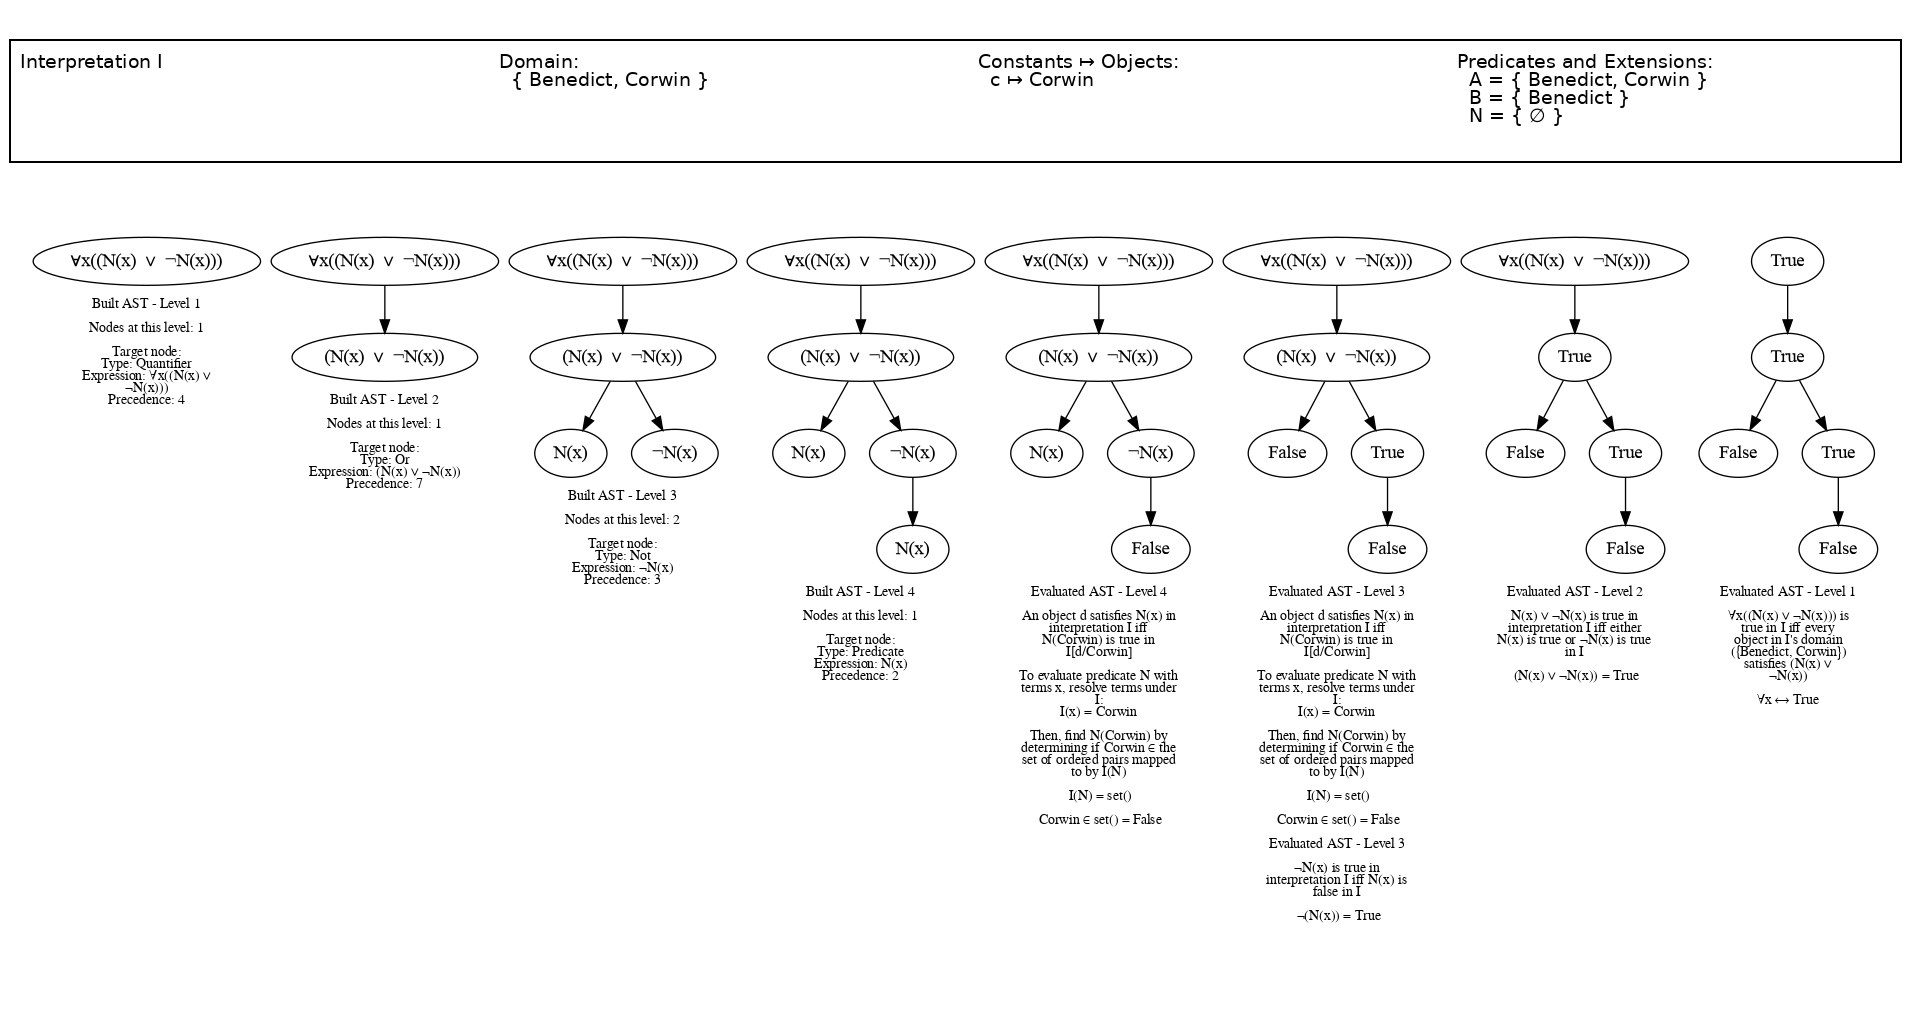
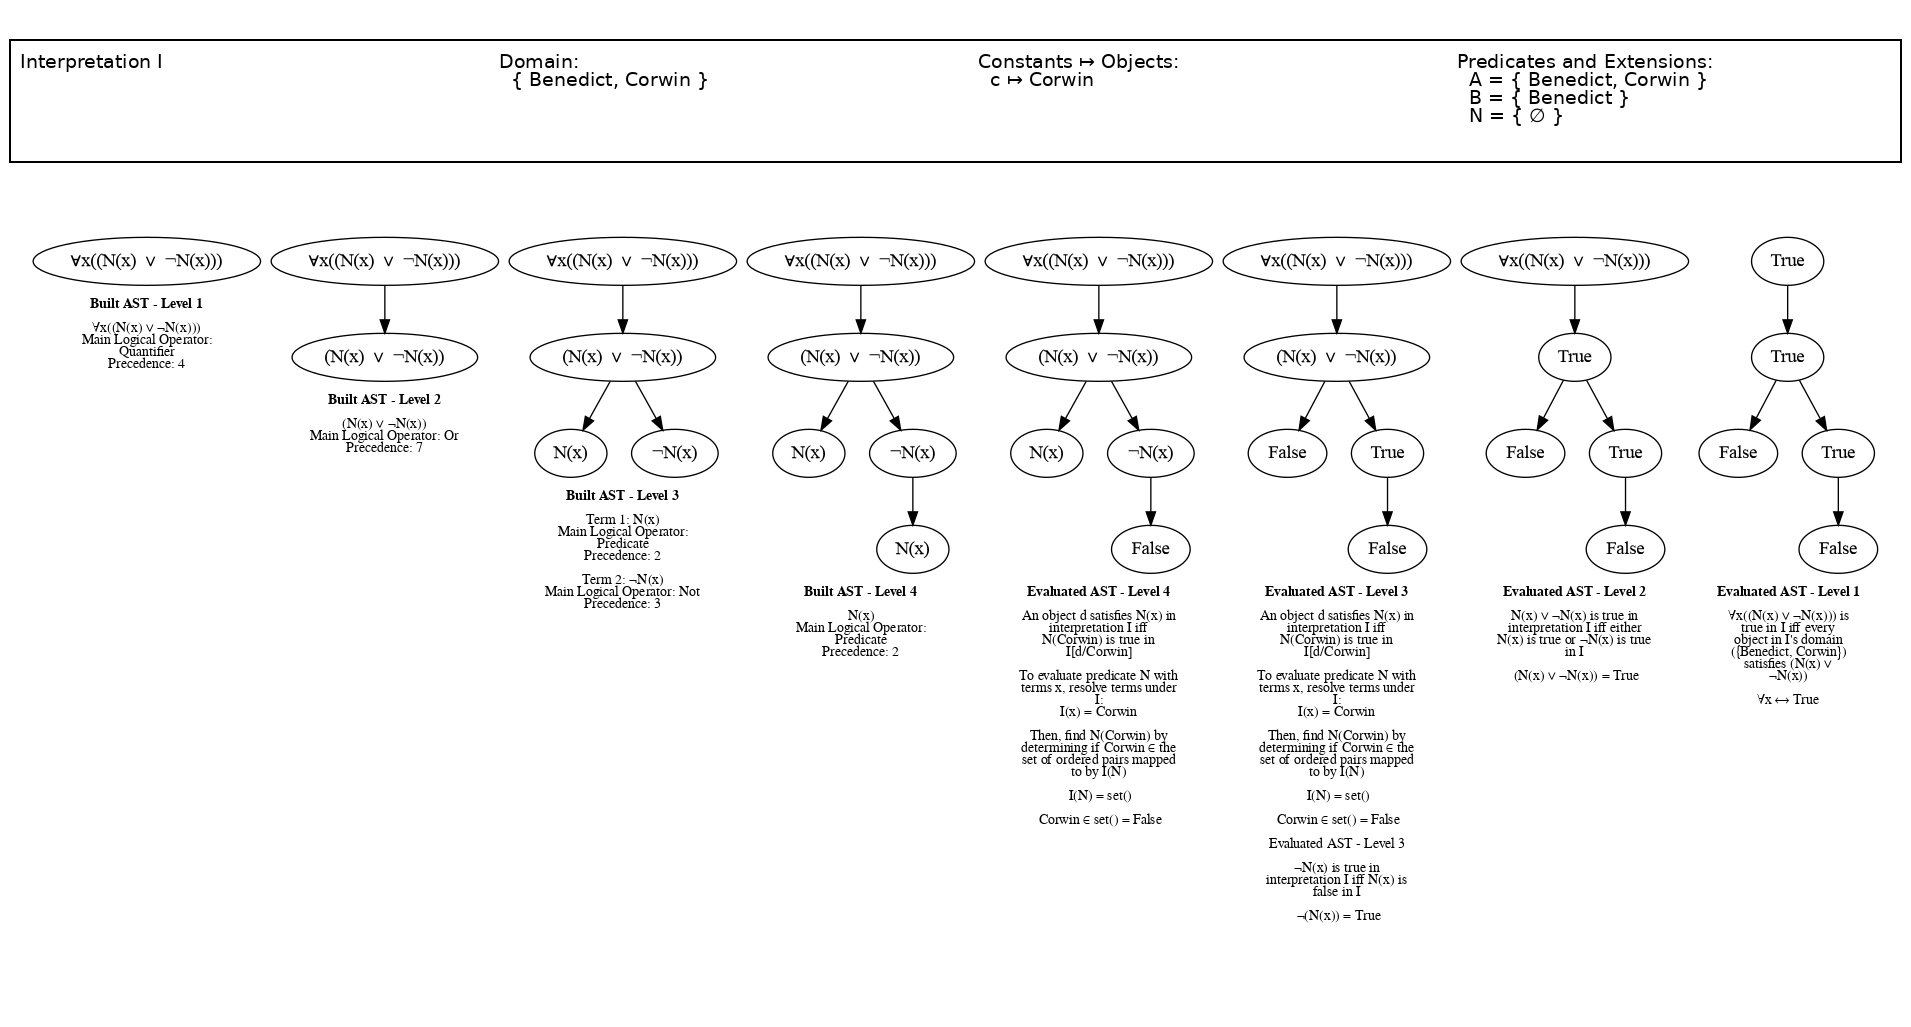
Fix meta language definitions

diff --git a/src/ast_visualize_progressive.py b/src/ast_visualize_progressive.py
@@ -52,24 +52,34 @@ def progressive_ast_images(ast: Expr) -> List[Image.Image]:
     images = []
     nodes_by_level = get_nodes_by_level(ast)
     level_count = len(nodes_by_level)
-    
 
     for level in range(level_count):
         filename = f"ast_level_{level}"
         target_node = save_graph_image(ast, level, filename)
-        print(f"Target node at level {level}: {target_node}")
         image = Image.open(f"{filename}.png")
 
-        # Add a caption describing the current level
-        caption = (
-            f"Built AST - Level {level + 1}\n\n"
-            + f"Nodes at this level: {len(nodes_by_level[level])}\n\n"
-            + "Target node:\n"
-            + f"Type: {type(target_node[0]).__name__}\n"
-            + f"Expression: {str(target_node[0])}\n"
-            + f"Precedence: {getattr(target_node[0], 'precedence', 'N/A')}\n\n"
+        caption = f"Built AST - Level {level + 1}\n\n"
+
+        # If there are multiple nodes, get all of them
+        if len(nodes_by_level[level]) > 1:
+            for index, node in enumerate(nodes_by_level[level]):
+                caption += (
+                    f"Term {index + 1}:"
+                    + f" {str(node)}\n"
+                    + f"Main Logical Operator: {type(node).__name__}\n"
+                    + f"Precedence: {getattr(node, 'precedence', 'N/A')}\n\n"
+                )
+
+        else:
+            caption += (
+                f"{str(target_node[0])}\n"
+                + f"Main Logical Operator: {type(target_node[0]).__name__}\n"
+                + f"Precedence: {getattr(target_node[0], 'precedence', 'N/A')}\n\n"
+            )
+
+        annotated_image = add_caption_below_image(
+            image, caption, level_count=level_count
         )
-        annotated_image = add_caption_below_image(image, caption, level_count=level_count)
         images.append(annotated_image)
 
         # Clean up temporary files

diff --git a/src/image_creation.py b/src/image_creation.py
@@ -2,7 +2,7 @@ from PIL import Image, ImageDraw, ImageFont
 import textwrap
 
 from interpretation import Interpretation
-from constants import CAPTION_FONT, TITLE_CONTENT_FONT
+from constants import CAPTION_FONT, TITLE_CONTENT_FONT, CAPTION_FONT_BOLD
 
 from typing import List
 
@@ -138,15 +138,16 @@ def wrap_text_with_newlines(text, width):
         )  # Wrap each line separately
     return wrapped_lines
 
-
 def add_caption_below_image(
     image: Image.Image, caption: str, level_count: int = 10
 ) -> Image.Image:
-    # Load a Unicode-compatible font with logical symbols support
+    # Load fonts with logical symbols support
     try:
-        font = ImageFont.truetype(*CAPTION_FONT)  # Adjust path and size as needed
+        font = ImageFont.truetype(*CAPTION_FONT)  # Regular font for body
+        bold_font = ImageFont.truetype(*CAPTION_FONT_BOLD)  # Bold font for first line
     except IOError:
         font = ImageFont.load_default()  # Fallback if the TTF font is not found
+        bold_font = font
 
     max_width = image.width  # Max width for line wrapping
 
@@ -168,10 +169,12 @@ def add_caption_below_image(
     # Draw each line of wrapped text below the image
     draw = ImageDraw.Draw(annotated_image)
     y_text = image.height + 5
-    for line in lines:
-        text_width = draw.textbbox((0, 0), line, font=font)[2]  # Get width of each line
+    for i, line in enumerate(lines):
+        # Use bold font for the first line and regular font for the rest
+        current_font = bold_font if i == 0 else font
+        text_width = draw.textbbox((0, 0), line, font=current_font)[2]  # Get width of each line
         draw.text(
-            ((image.width - text_width) // 2, y_text), line, fill="black", font=font
+            ((image.width - text_width) // 2, y_text), line, fill="black", font=current_font
         )
         y_text += line_height
 

diff --git a/src/main.py b/src/main.py
@@ -1,11 +1,7 @@
 from interpretation import Interpretation, Predicate, Constant
-
 from fol_ast import Parser, tokenize
-
-from ast_evaluate import evaluate
 from ast_evaluate_progressive import visualize_progressive_evaluation
 from ast_visualize_progressive import visualize_ast_progressively
-
 from image_creation import (
     stitch_horizontal,
     create_interpretation_image,
@@ -33,9 +29,7 @@ def remap_symbols(formula):
     for symbol, replacement in symbol_remap.items():
         while symbol in formula:
             formula = formula.replace(symbol, replacement)
-    print(f"Remapped formula: {formula}")
     return formula
-
 
 
 I_a = (
@@ -47,23 +41,25 @@ I_a = (
     .add_constant_object_mapping(Constant("c"), "Corwin")
 )
 
-formula = "∀x(N(x) or ∃y(Q(y) ∧ R(x, y)))"
-formula = remap_symbols("∀x(N(x) or !N(x))")
-# formula = remap_symbols("exists x (A(x) and B(x))")
-# formula = remap_symbols("exists x (B(x)) -> forall x (A(x))")
+example_formulas = [
+    "∀x(N(x) or !N(x))",
+    "forall x (A(x) and B(x))",
+    "exists x (A(x) and B(x))",
+    "exists x (B(x)) -> forall x (A(x))",
+    "∀x(N(x) or ∃y(Q(y) ∧ R(x, y)))",
+]
 
-# ast_graph = visualize_ast(ast)  # Assuming `ast` is your AST root node
-# ast_graph.render("ast_tree", format="png", view=True)  # Save and view the image
-# res = evaluate(ast, I_a)  # Should evaluate the formula under the interpretation
+formula = example_formulas[3]
 
+formula = remap_symbols(formula)
 tokens = tokenize(formula)
 parser = Parser(tokens, I_a)
 ast = parser.parse()
 
 trees_image = stitch_horizontal(
     [
-        visualize_ast_progressively(ast, show_image=False),
-        visualize_progressive_evaluation(ast, I_a, show_image=False),
+        visualize_ast_progressively(ast),
+        visualize_progressive_evaluation(ast, I_a),
     ]
 )
 final_image = center_and_stitch_vertical(

diff --git a/src/interpretation.py b/src/interpretation.py
@@ -65,7 +65,6 @@ class Predicate:
         self.true_for.add(objects)
 
     def __call__(self, objects):
-        # print(f"Checking if {objects} is in {self.true_for}")
         return objects in self.true_for
 
 
@@ -162,7 +161,6 @@ class Interpretation:
             output.append("\nPredicates and Extensions:")
             for predicate_name, predicate in sorted(self.predicates.items()):
                 if predicate.true_for:
-                    print(predicate.true_for)
                     extensions = ", ".join(
                         f"{args}" for args in sorted(predicate.true_for)
                     )
@@ -227,7 +225,6 @@ class Interpretation:
 
     def __call__(self, symbol: Symbol, *args):
         if isinstance(symbol, Constant) or str(symbol) in self.names:
-            print(f"Looking up {symbol} in {self.names}")
             return self.names[str(symbol)]
         if isinstance(symbol, Predicate) or str(symbol) in self.predicates:
             ordered_pair = []

diff --git a/src/constants.py b/src/constants.py
@@ -1,2 +1,4 @@
 TITLE_CONTENT_FONT = ("DejaVuSans.ttf", 19)
+
 CAPTION_FONT = ("FreeSerif.ttf", 14)
+CAPTION_FONT_BOLD = ("FreeSerifBold.ttf", 14)

diff --git a/README.md b/README.md
@@ -1,5 +1,7 @@
 ![image example](./output/formula_under_interpretation.example.png)
 
+> Generated by code below.
+
 ```python
 I_a = (
     Interpretation()
